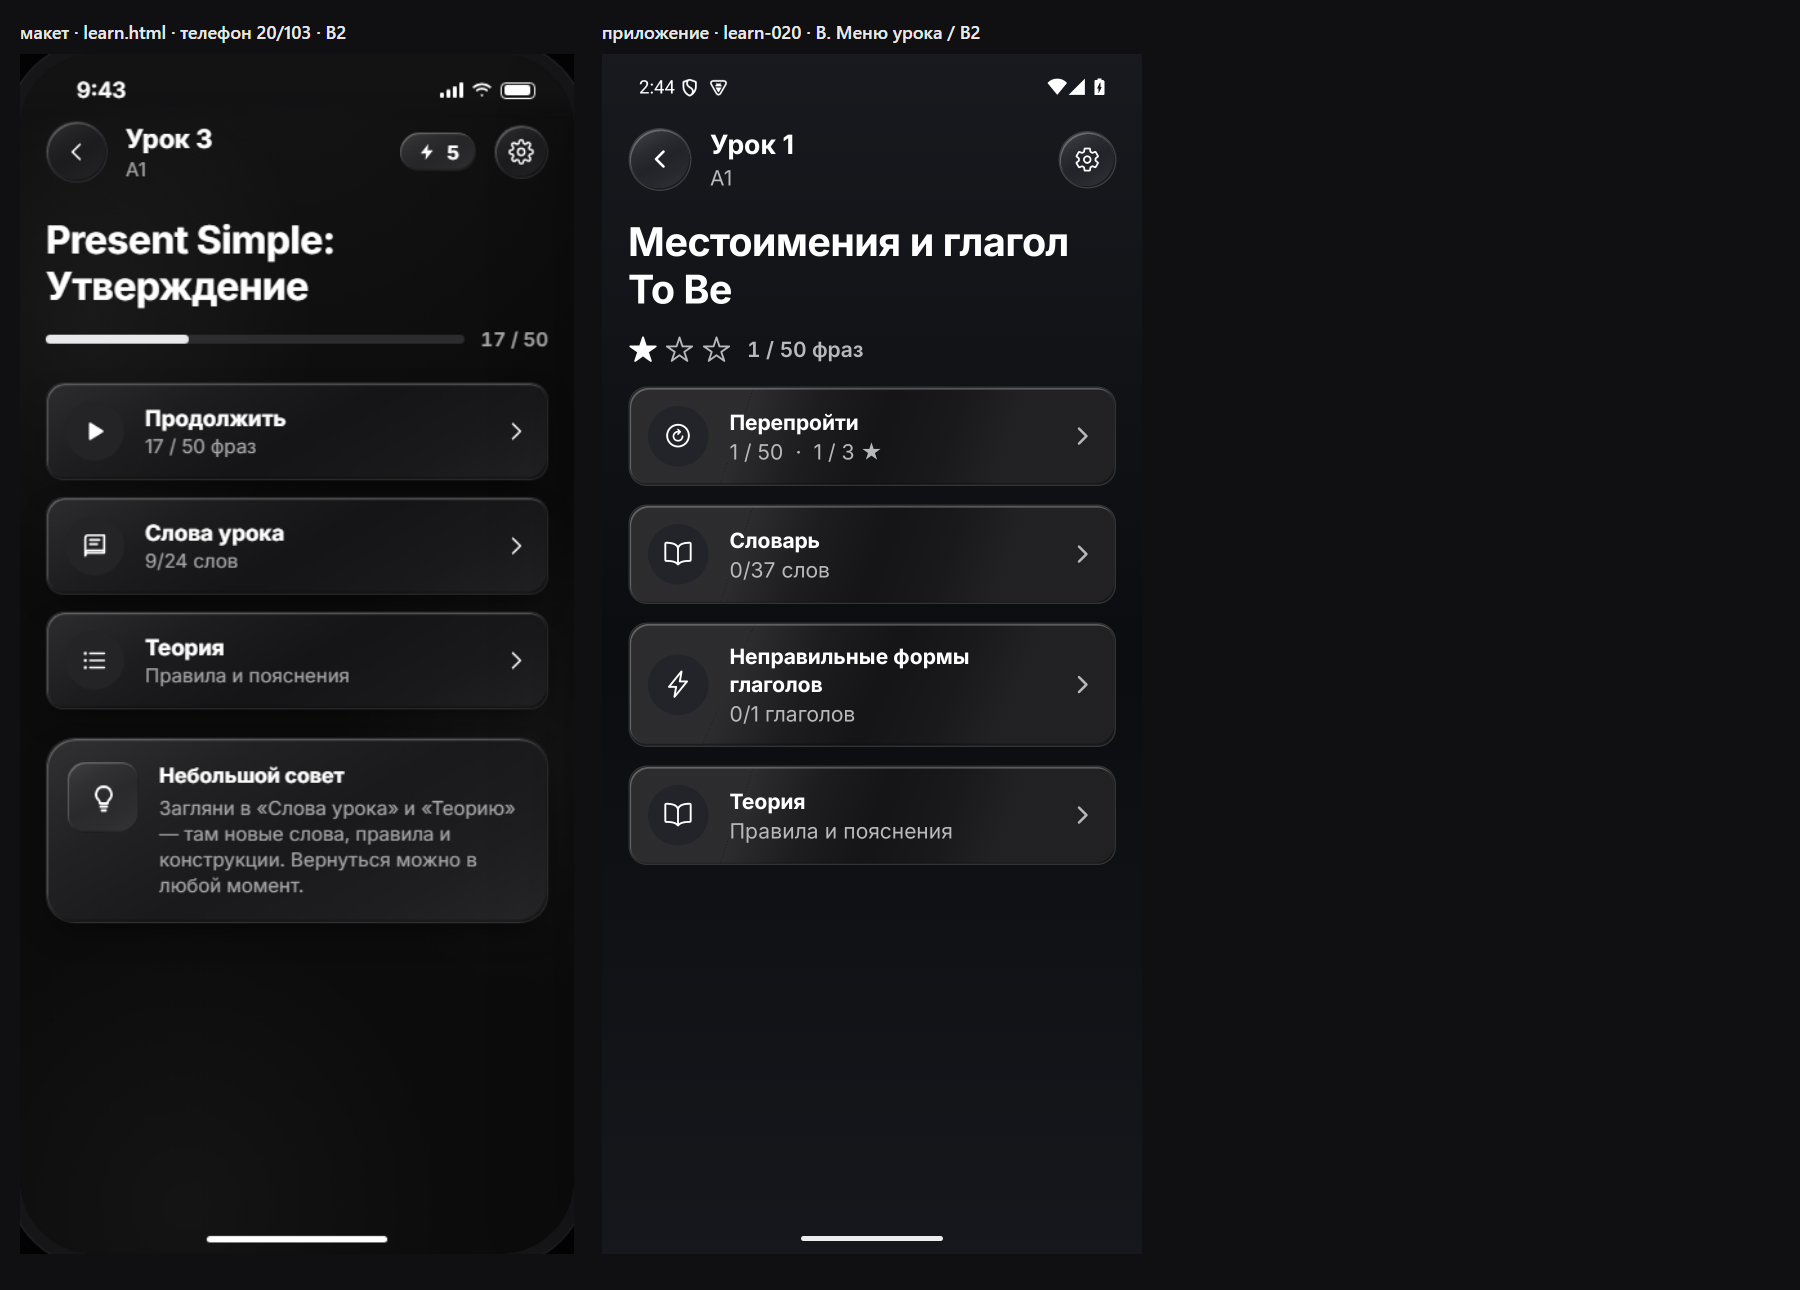
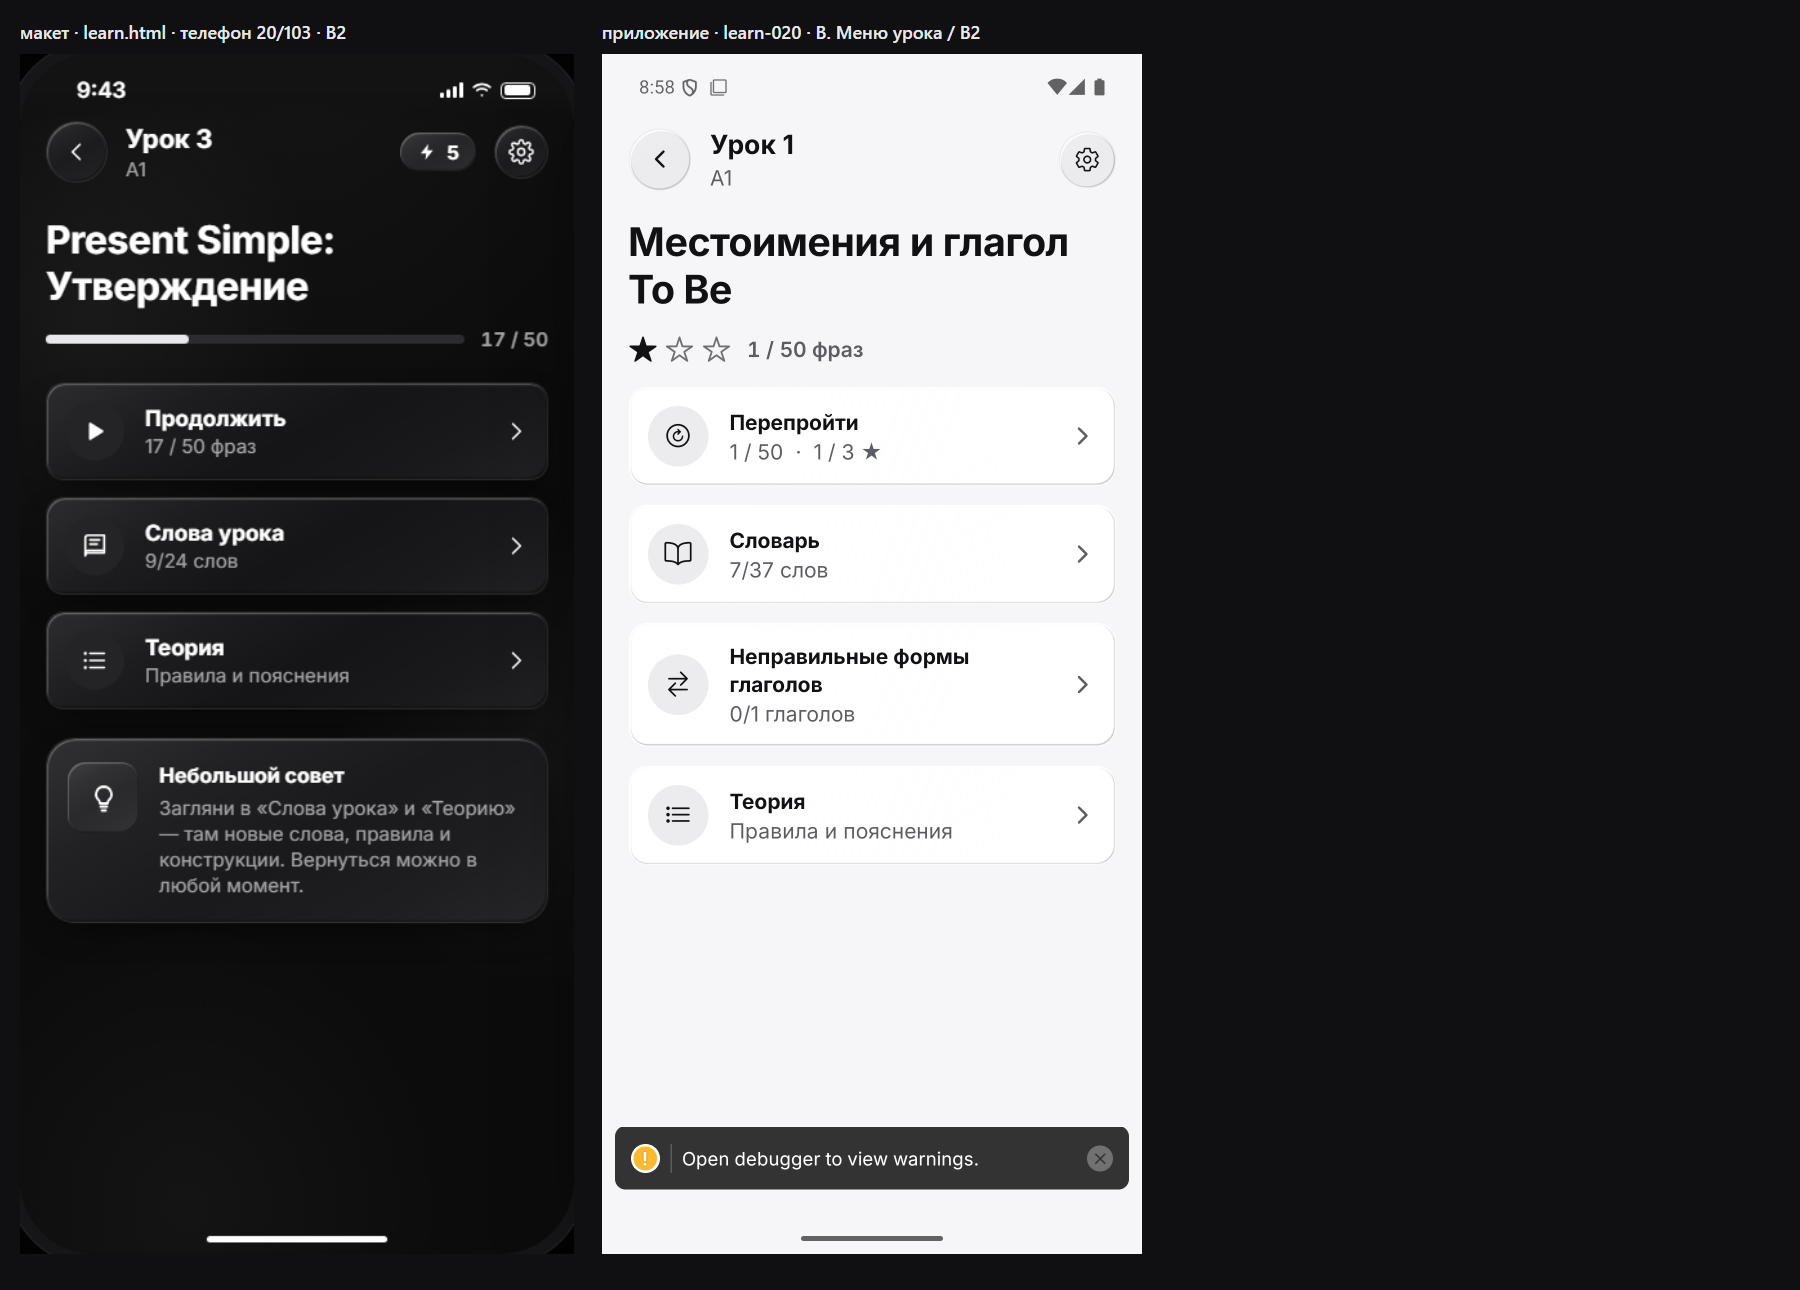
docs(parity): урок 1 — меню, задание, неверный ответ (светлая)

Changed region(s): [[0.3111, 0.031, 0.6533, 0.9922]]

diff --git a/docs/phraseman-2.0/INBOX_COORDINATOR_FROM_SVERKA.md b/docs/phraseman-2.0/INBOX_COORDINATOR_FROM_SVERKA.md
@@ -466,3 +466,6 @@ cards-section-032 после 1d993b5c4 почти совпадает (шторк
 Итог на экране: холодно — открывается ГЛАВНАЯ, не «Видео»; тепло — через 6 с пустой светлый экран (без вкладки «Видео»). redirectSystemPath отдаёт `/video`, а такого маршрута, видимо, нет (вкладка «Видео» живёт как `(tabs)/video`). 🔴 deeplink на «Видео» не работает. Файл: `DEEPLINK_video_cold_2026-10-10.txt`.
 
 **3) dialogs-001, под каким аккаунтом снимала:** по логам `[LESSONS-HEADER] isPremium:true devMode:true` — это Plus через dev-режим (dev_local_plus_override). Переснять под Free я НЕ могу: переключатель Plus — запретный для меня (dev_local_plus_override не трогать). Пилюля лимита 10/10 у Plus не показывается — совпадает с моим снимком. Пилюля энергии ⚡ в макете на Free; на Plus по D111 — смотреть решение. Пересъёмку под Free пусть сделает сессия, у которой есть право выключить dev-Plus.
+
+## 2026-10-10 ~21:05 · СВЕРКА — обычный поток урока 1, светлая «Аврора» (начало)
+Снято: меню урока (learn-020), задание «Собери фразу» (028/029), неверный ответ (032). Интро при «Перепройти» не показывается (сразу задание). Отличия: у макета в шапке энергия ⚡, полоса «N/50» и кнопка «Дальше →»; у приложения звёзды вместо полосы, панель из 5 иконок вместо кнопки, «Объясн…» обрезано; строки «Словарь/Неправильные формы» вместо «Слова урока». 🟡 В светлой правильный ответ «You are late» зелёным на розовом — слабый контраст. Дальше: верный ответ, экзамен, итог (V2DoneScreen), затем всё то же в тёмной.
